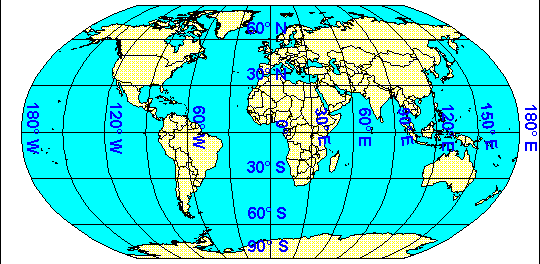
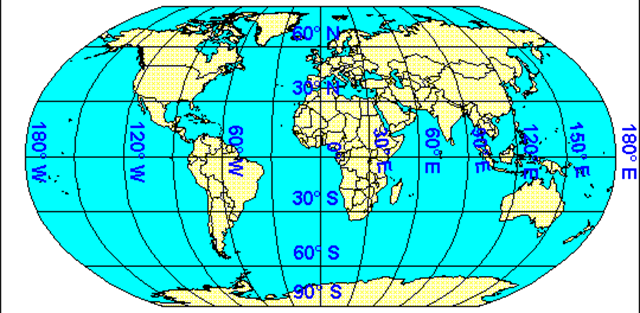
new image and corrected gui

diff --git a/src/experiments/testGui.java b/src/experiments/testGui.java
@@ -3,12 +3,17 @@ package experiments;
 import java.awt.BorderLayout;
 import java.awt.EventQueue;
 
+import javax.imageio.ImageIO;
+import javax.swing.ImageIcon;
 import javax.swing.JFrame;
 import javax.swing.JPanel;
 import javax.swing.border.EmptyBorder;
 import javax.swing.JButton;
+
 import java.awt.event.ActionListener;
 import java.awt.event.ActionEvent;
+import java.awt.image.BufferedImage;
+
 import javax.swing.JTextField;
 import javax.swing.JLabel;
 import javax.swing.border.TitledBorder;
@@ -16,9 +21,13 @@ import javax.swing.border.EtchedBorder;
 import javax.swing.SwingConstants;
 import javax.swing.border.BevelBorder;
 import javax.swing.border.LineBorder;
+
 import java.awt.Color;
 import java.awt.SystemColor;
 import java.awt.TextArea;
+import java.io.File;
+import java.io.IOException;
+
 import javax.swing.JTextPane;
 
 public class testGui extends JFrame {
@@ -47,21 +56,19 @@ public class testGui extends JFrame {
 		});
 	}
 
-	/**
-	 * Create the frame.
-	 */
-	public testGui() {
+
+	public testGui() throws IOException {
 		setDefaultCloseOperation(JFrame.EXIT_ON_CLOSE);
 		setBounds(1, 1, 825, 600);
 		contentPane = new JPanel();
 		contentPane.setBorder(new EmptyBorder(5, 5, 5, 5));
 		setContentPane(contentPane);
 		contentPane.setLayout(null);
-		
+
 		JButton btnStart = new JButton("Start");
 		btnStart.setBounds(261, 543, 117, 29);
 		contentPane.add(btnStart);
-		
+
 		JButton btnStop = new JButton("Resume");
 		btnStop.addActionListener(new ActionListener() {
 			public void actionPerformed(ActionEvent e) {
@@ -69,123 +76,127 @@ public class testGui extends JFrame {
 		});
 		btnStop.setBounds(594, 543, 117, 29);
 		contentPane.add(btnStop);
-		
+
 		JButton button = new JButton("Stop");
 		button.setBounds(371, 543, 117, 29);
 		contentPane.add(button);
-		
+
 		JButton btnPause = new JButton("Pause");
 		btnPause.setBounds(482, 543, 117, 29);
 		contentPane.add(btnPause);
-		
+
 		JPanel panel = new JPanel();
 		panel.setBorder(null);
 		panel.setBounds(160, 12, 640, 450);
 		contentPane.add(panel);
 		panel.setLayout(null);
-		
+
 		JPanel presentation_panel = new JPanel();
 		presentation_panel.setBorder(new LineBorder(Color.DARK_GRAY, 2, true));
 		presentation_panel.setBounds(12, 18, 628, 426);
 		panel.add(presentation_panel);
-		JImageComponent ic = new JImageComponent(); //this is what I'm not getting
-		presentation_panel.add(ic); //it should bring in the image???
-				
+		BufferedImage bufImage = ImageIO.read(new File("src/experiments/Robinson5.png"));
+		JLabel picLabel = new JLabel(new ImageIcon(bufImage));
+		presentation_panel.add(picLabel);
+		//JImageComponent ic = new JImageComponent(); //this is what I'm not getting
+		//presentation_panel.add(ic);//it should bring in the image???
+		
+		
 		JPanel panel_1 = new JPanel();
 		panel_1.setBounds(6, 30, 155, 207);
 		contentPane.add(panel_1);
 		panel_1.setLayout(null);
-		
+
 		txtEnterAValue = new JTextField();
 		txtEnterAValue.setBounds(40, 5, 74, 28);
 		txtEnterAValue.setText("1 to 180");
 		panel_1.add(txtEnterAValue);
 		txtEnterAValue.setColumns(5);
-		
+
 		JLabel lblNewLabel = new JLabel(" Grid Spacing (degrees)");
 		lblNewLabel.setBounds(5, 38, 144, 16);
 		panel_1.add(lblNewLabel);
-		
+
 		txtTo = new JTextField();
 		txtTo.setBounds(40, 59, 74, 28);
 		txtTo.setText("1 to 1440");
 		txtTo.setColumns(5);
 		panel_1.add(txtTo);
-		
+
 		JLabel lblTimeStepminutes = new JLabel("Time Step (minutes)");
 		lblTimeStepminutes.setBounds(15, 92, 125, 16);
 		panel_1.add(lblTimeStepminutes);
-		
+
 		textField = new JTextField();
 		textField.setBounds(40, 113, 74, 28);
 		textField.setText("18 - 24");
 		textField.setColumns(5);
 		panel_1.add(textField);
-		
+
 		JLabel lblDisplayRate = new JLabel("Display Rate");
 		lblDisplayRate.setBounds(38, 146, 78, 16);
 		panel_1.add(lblDisplayRate);
-		
+
 		JLabel lblframesPerSecond = new JLabel("(frames per second)");
 		lblframesPerSecond.setBounds(15, 167, 124, 16);
 		panel_1.add(lblframesPerSecond);
-		
+
 		JPanel panel_2 = new JPanel();
 		panel_2.setBounds(6, 249, 155, 213);
 		contentPane.add(panel_2);
 		panel_2.setLayout(null);
-		
+
 		JLabel lblThreads = new JLabel("Threads");
 		lblThreads.setBounds(39, 51, 78, 16);
 		lblThreads.setHorizontalAlignment(SwingConstants.CENTER);
 		panel_2.add(lblThreads);
-		
+
 		txtSimOrPre = new JTextField();
 		txtSimOrPre.setHorizontalAlignment(SwingConstants.CENTER);
 		txtSimOrPre.setBounds(39, 22, 78, 28);
 		txtSimOrPre.setText("s or p");
 		txtSimOrPre.setColumns(5);
 		panel_2.add(txtSimOrPre);
-		
+
 		JLabel lblInitiative = new JLabel("Initiative");
 		lblInitiative.setBounds(39, 106, 78, 16);
 		lblInitiative.setHorizontalAlignment(SwingConstants.CENTER);
 		panel_2.add(lblInitiative);
-		
+
 		txtSimPreGui = new JTextField();
 		txtSimPreGui.setHorizontalAlignment(SwingConstants.CENTER);
 		txtSimPreGui.setBounds(20, 77, 114, 28);
 		txtSimPreGui.setText("Sim, Pre, GUI");
 		txtSimPreGui.setColumns(5);
 		panel_2.add(txtSimPreGui);
-		
+
 		JLabel lblBufferSize = new JLabel("Buffer Size");
 		lblBufferSize.setBounds(39, 166, 78, 16);
 		lblBufferSize.setHorizontalAlignment(SwingConstants.CENTER);
 		panel_2.add(lblBufferSize);
-		
+
 		txtPositiveInt = new JTextField();
 		txtPositiveInt.setHorizontalAlignment(SwingConstants.CENTER);
 		txtPositiveInt.setBounds(39, 134, 78, 28);
 		txtPositiveInt.setText(">= 1");
 		txtPositiveInt.setColumns(5);
 		panel_2.add(txtPositiveInt);
-		
+
 		TextArea textArea = new TextArea();
 		textArea.setForeground(new Color(0, 0, 0));
 		textArea.setBounds(17, 512, 128, 25);
 		contentPane.add(textArea);
-		
+
 		JLabel lblNewLabel_1 = new JLabel("Time Elapsed");
 		lblNewLabel_1.setHorizontalAlignment(SwingConstants.CENTER);
 		lblNewLabel_1.setBounds(6, 544, 157, 25);
 		contentPane.add(lblNewLabel_1);
-		
+
 		JLabel lblPositionOfThe = new JLabel("Rotational Position");
 		lblPositionOfThe.setHorizontalAlignment(SwingConstants.CENTER);
 		lblPositionOfThe.setBounds(27, 474, 134, 25);
 		contentPane.add(lblPositionOfThe);
-		
+
 		JPanel panel_3 = new JPanel();
 		panel_3.setBounds(160, 478, 659, 21);
 		contentPane.add(panel_3);

diff --git a/src/experiments/JImageComponent.java b/src/experiments/JImageComponent.java
@@ -3,6 +3,7 @@ import java.awt.Graphics;
 import java.awt.image.BufferedImage;
 import java.io.File;
 import java.io.IOException;
+
 import javax.imageio.ImageIO;
 import javax.swing.JPanel;
 
@@ -11,7 +12,7 @@ public class JImageComponent extends JPanel {
 
     public JImageComponent() {
        try {                
-          image = ImageIO.read(new File("Robinson2.png"));
+          image = ImageIO.read(new File("src/experiments/Robinson2.png"));
        } catch (IOException ex) {
             // handle exception...
        }
